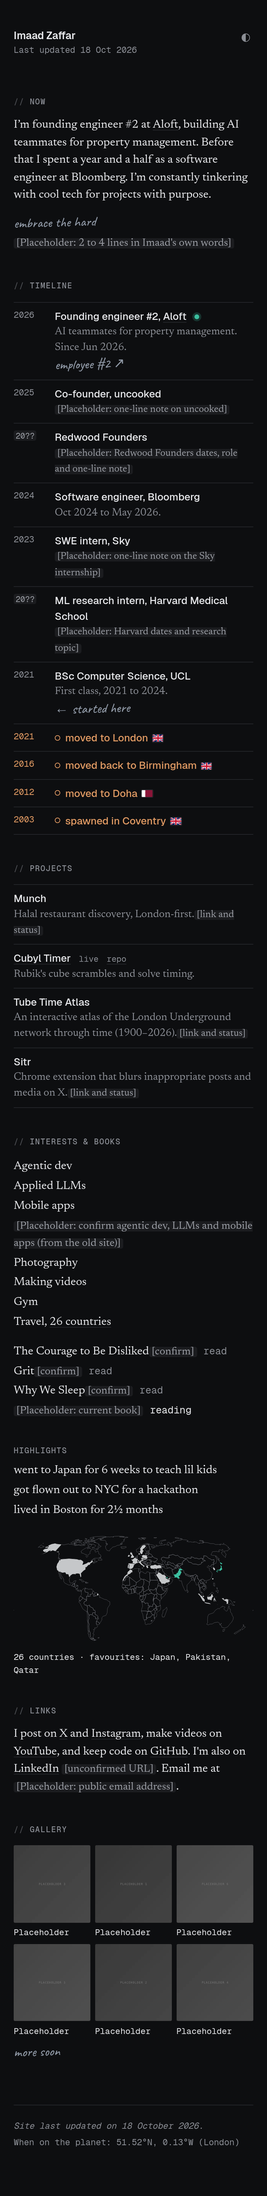
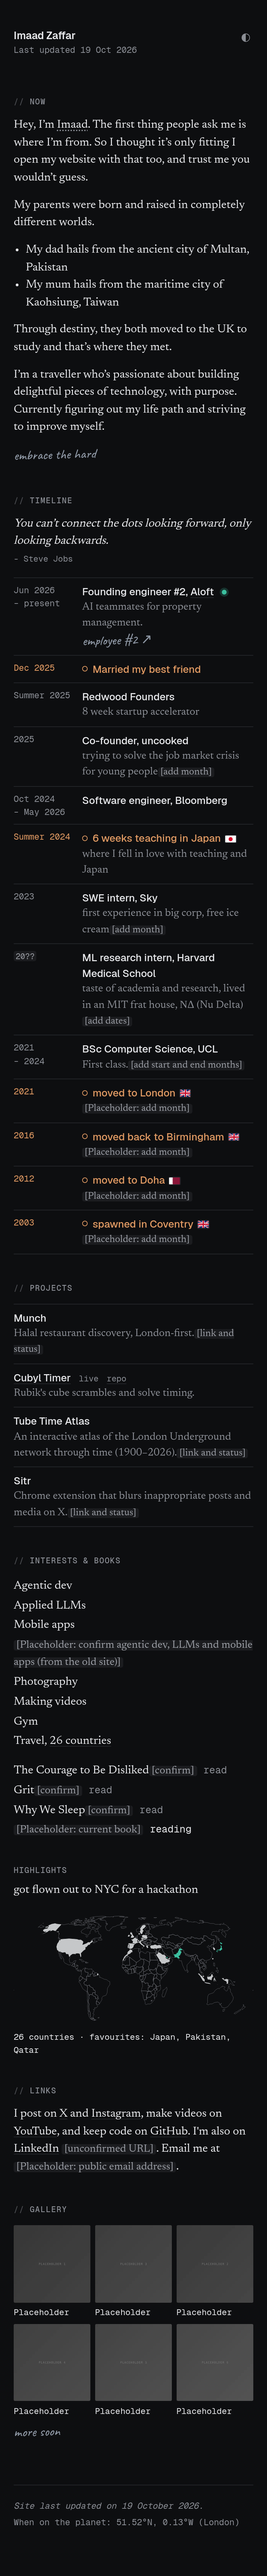
Real copy: Now text, dated timeline, Jobs quote, name popover
- Now: Imaad's own text; "embrace the hard" aside kept.
- Timeline: start/end dates (YYYY, YYYY-MM, YYYY-summer, present)
  shown in the left column; real notes for uncooked, Sky, Harvard,
  Redwood; Japan and marriage life rows; "started here" dropped.
- Quote from Steve Jobs heads the Timeline.
- Highlights: only NYC remains.
- "Imaad" opens a native popover (Arabic · meaning "pillar" · عماد)
  on hover, focus or tap; works without JS.

diff --git a/src/styles/global.css b/src/styles/global.css
@@ -72,10 +72,11 @@ mark.ph { background: var(--mark); color: var(--mark-ink); padding: 0 0.25em; bo
 .updated, .yr, .books em, figcaption, footer { font-family: var(--mono); font-size: 12.5px; }
 
 .ledger { list-style: none; margin: 0; padding: 0; }
-.ledger li { position: relative; display: grid; grid-template-columns: 3rem 1fr; gap: 0.75rem; padding: 0.5rem 0; border-top: 1px solid var(--line); }
+.ledger li { position: relative; display: grid; grid-template-columns: 5.5rem 1fr; gap: 0.75rem; padding: 0.5rem 0; border-top: 1px solid var(--line); }
 .ledger.plain li { grid-template-columns: 1fr; }
 .ledger li:last-child { border-bottom: 1px solid var(--line); }
 .yr { color: var(--muted); font-variant-numeric: tabular-nums; }
+.yr .end { display: block; }
 .role b { font-weight: 500; }
 .role small { display: block; color: var(--muted); font-family: var(--serif); font-size: 15.5px; line-height: 1.5; }
 .status, .repo { margin-left: 0.5rem; font-family: var(--mono); font-size: 12px; font-style: normal; color: var(--muted); }
@@ -83,6 +84,22 @@ mark.ph { background: var(--mark); color: var(--mark-ink); padding: 0 0.25em; bo
 .life b::before { content: ''; display: inline-block; width: 6px; height: 6px; margin-right: 0.45rem; vertical-align: 0.1em; border: 1.5px solid currentColor; border-radius: 50%; }
 .flag { display: inline-block; width: 1.05em; height: 0.7em; margin-left: 0.15rem; vertical-align: -0.05em; border-radius: 1px; overflow: hidden; box-shadow: 0 0 0 1px var(--line); }
 .flag svg { display: block; width: 100%; height: 100%; }
+.quote { margin: 0 0 1.1rem; }
+.quote p { margin: 0; font-family: var(--serif); font-style: italic; font-size: 17px; line-height: 1.45; }
+.quote cite { display: block; margin-top: 0.2rem; font-style: normal; font-family: var(--mono); font-size: 12px; color: var(--muted); }
+.prose ul { margin: 0 0 0.9rem; padding-left: 1.1rem; }
+.term {
+  font: inherit; color: inherit; background: none; border: 0; padding: 0; cursor: help;
+  text-decoration: underline dotted; text-decoration-color: var(--muted); text-underline-offset: 3px;
+}
+.term:focus-visible { outline: 1px solid var(--accent); outline-offset: 2px; }
+.meaning {
+  margin: 0; padding: 0.3rem 0.55rem; inset: auto; position: fixed;
+  background: var(--bg); color: var(--ink); border: 1px solid var(--line); border-radius: 3px;
+  font-family: var(--mono); font-size: 12px; line-height: 1.4; white-space: nowrap;
+  box-shadow: 0 2px 8px color-mix(in srgb, var(--ink) 8%, transparent);
+}
+.meaning [lang='ar'] { font-family: system-ui, sans-serif; font-size: 13px; }
 .dot {
   display: inline-block; width: 7px; height: 7px; margin-left: 0.5rem; vertical-align: middle;
   border-radius: 50%; background: var(--accent);
@@ -116,7 +133,6 @@ figcaption span { color: var(--muted); }
   white-space: nowrap; font-family: var(--hand); font-weight: 500; font-size: 20px; line-height: 1.1;
   color: var(--pencil); transform: rotate(-4deg); transform-origin: left center;
 }
-.hn-l { transform: rotate(3deg); }
 .hn-now { top: 2.4rem; transform: rotate(-5deg); }
 .hn-g { top: auto; bottom: 2.2rem; transform: rotate(-6deg); }
 

diff --git a/src/content.config.ts b/src/content.config.ts
@@ -10,26 +10,31 @@ const now = defineCollection({
   schema: z.object({ updated: z.coerce.date(), aside: z.string().optional(), todo }),
 })
 
+const partialDate = z.string().regex(/^\d{4}(-(0[1-9]|1[0-2]|summer))?$/, 'use YYYY, YYYY-MM or YYYY-summer')
+const when = { start: partialDate.nullable(), end: z.union([partialDate, z.literal('present')]).optional() }
+
 const timeline = defineCollection({
   loader: file('./src/content/timeline.json'),
   schema: z.discriminatedUnion('kind', [
     z.object({
       kind: z.literal('work'),
-      year: z.number().int().nullable(),
+      ...when,
       role: z.string().nullable(),
       org: z.string(),
       url: z.string().url().optional(),
-      note: z.string().nullable(),
+      note: z.string().optional(),
       current: z.boolean().default(false),
       aside: z.string().optional(),
       todo,
     }),
     z.object({
       kind: z.literal('life'),
-      year: z.number().int(),
+      ...when,
       text: z.string(),
-      place: z.string(),
-      country: z.enum(alpha2),
+      place: z.string().optional(),
+      country: z.enum(alpha2).optional(),
+      note: z.string().optional(),
+      todo,
     }),
   ]),
 })

diff --git a/README.md b/README.md
@@ -20,8 +20,8 @@ All copy lives in `src/content/`. The schemas in `src/content.config.ts` validat
 
 | File | What it holds |
 | --- | --- |
-| `now.md` | The Now paragraph. `updated` drives "Last updated" and the footer date. `aside` is the handwritten note beside it. |
-| `timeline.json` | Rows in display order, newest first. `kind: "work"` rows have `year`, `role`, `org`, optional `url`, `note`, `current` (adds the dot) and `aside` (the handwritten margin note). `kind: "life"` rows have `year`, `text`, `place` and `country` (ISO alpha-2, shown as a flag). |
+| `now.md` | The Now section (markdown; the name popover is inline HTML using the native `popover` attribute). `updated` drives "Last updated" and the footer date. `aside` is the handwritten note beside it. |
+| `timeline.json` | Rows in display order, newest first. Every row has `start` and optional `end`, written as `YYYY`, `YYYY-MM` or `YYYY-summer` (`end` can also be `"present"`); they show as "Jun 2026 – present" in the left column. `start: null` with a `todo` shows a placeholder. `kind: "work"` rows have `role`, `org`, optional `url`, `note`, `current` (adds the dot) and `aside` (the handwritten margin note). `kind: "life"` rows have `text`, optional `place`, `country` (ISO alpha-2, shown as a flag) and `note`. |
 | `projects.json` | One row per project: `name`, `blurb`, optional `url` and `repo`, and `status` (`live`, `archived`, `wip` or `null`). |
 | `interests.json` | Entries with `kind` set to `interest`, `highlight` (`text`) or `book` (`status`: `reading` or `read`). |
 | `travel.json` | Visited countries: `{ "id": "JP", "favourite": true }`, with optional `year` and `note`. `id` must be an ISO 3166-1 alpha-2 code. The world map, its favourites (in teal) and the Travel count come from this file. Countries too small to see get a dot. |

diff --git a/src/content/now.md b/src/content/now.md
@@ -1,7 +1,15 @@
 ---
-updated: 2026-10-18
+updated: 2026-10-19
 aside: embrace the hard
-todo: 2 to 4 lines in Imaad's own words
 ---
 
-I'm founding engineer #2 at [Aloft](https://aloft.so), building AI teammates for property management. Before that I spent a year and a half as a software engineer at Bloomberg. I'm constantly tinkering with cool tech for projects with purpose.
+Hey, I’m <button type="button" class="term" popovertarget="name-meaning">Imaad</button><span id="name-meaning" class="meaning" popover>Arabic · meaning “pillar” · <span lang="ar" dir="rtl">عماد</span></span>. The first thing people ask me is where I’m from. So I thought it’s only fitting I open my website with that too, and trust me you wouldn’t guess.
+
+My parents were born and raised in completely different worlds.
+
+- My dad hails from the ancient city of Multan, Pakistan
+- My mum hails from the maritime city of Kaohsiung, Taiwan
+
+Through destiny, they both moved to the UK to study and that’s where they met.
+
+I’m a traveller who’s passionate about building delightful pieces of technology, with purpose. Currently figuring out my life path and striving to improve myself.
